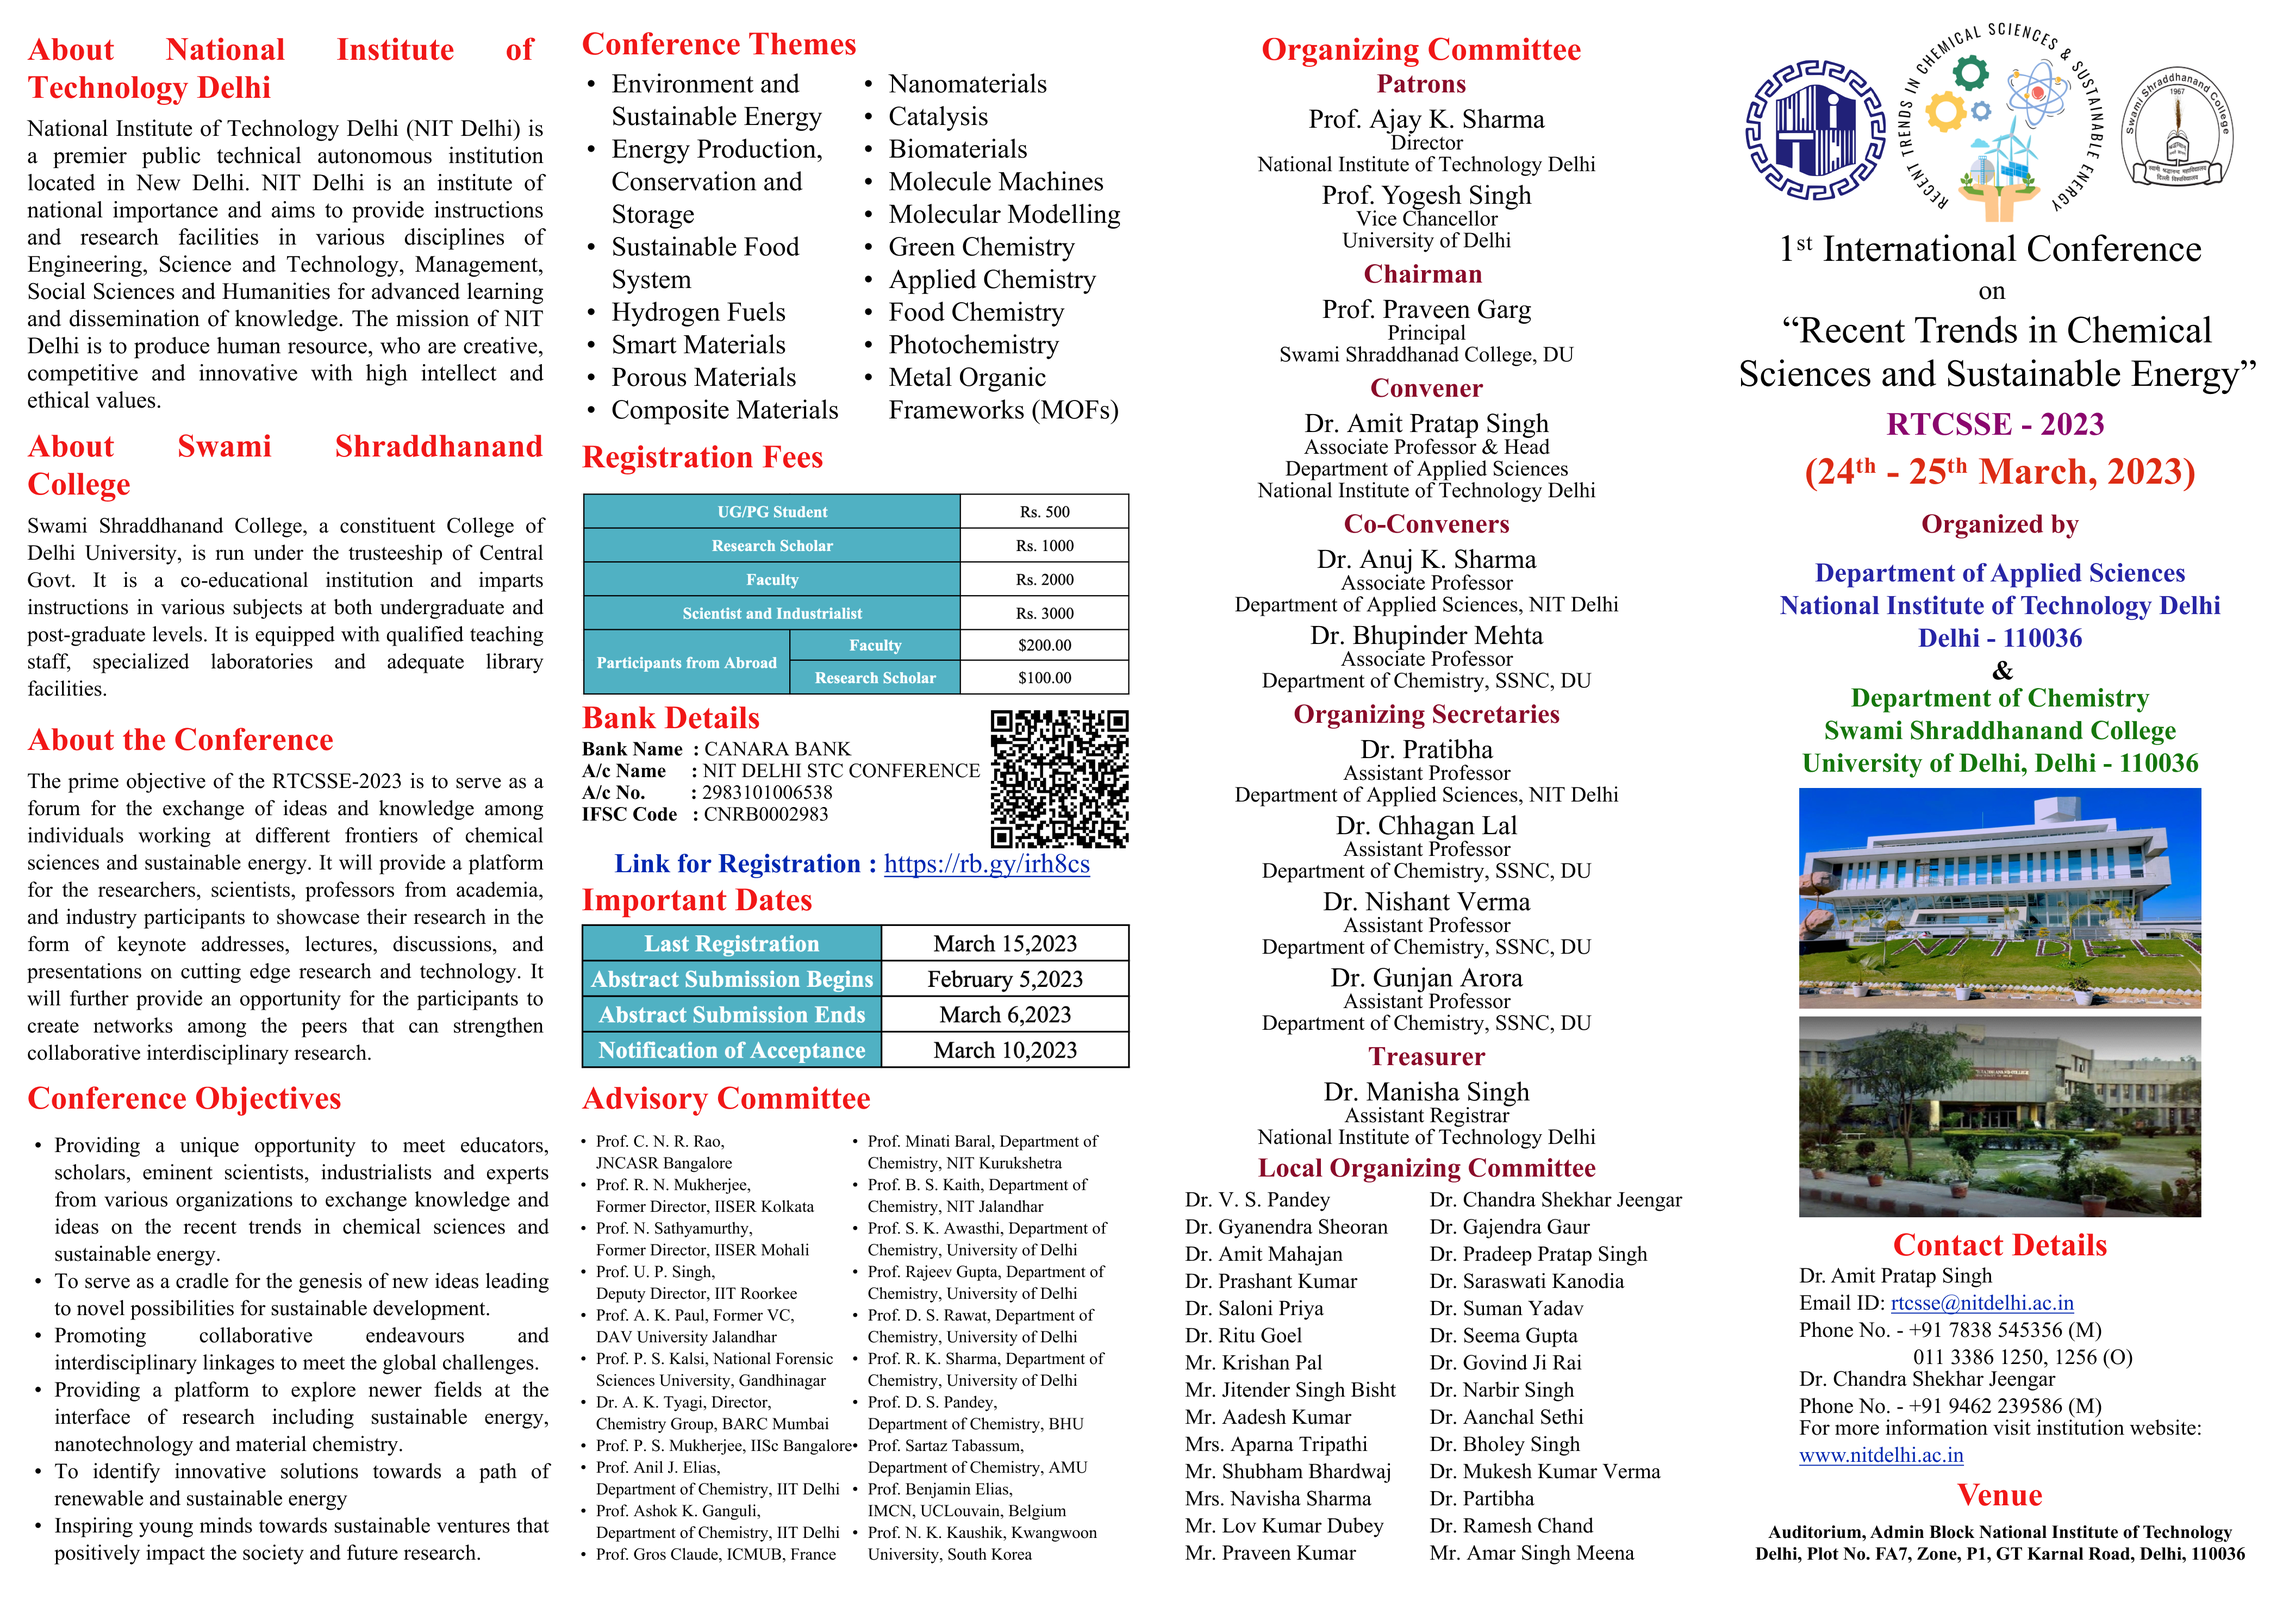
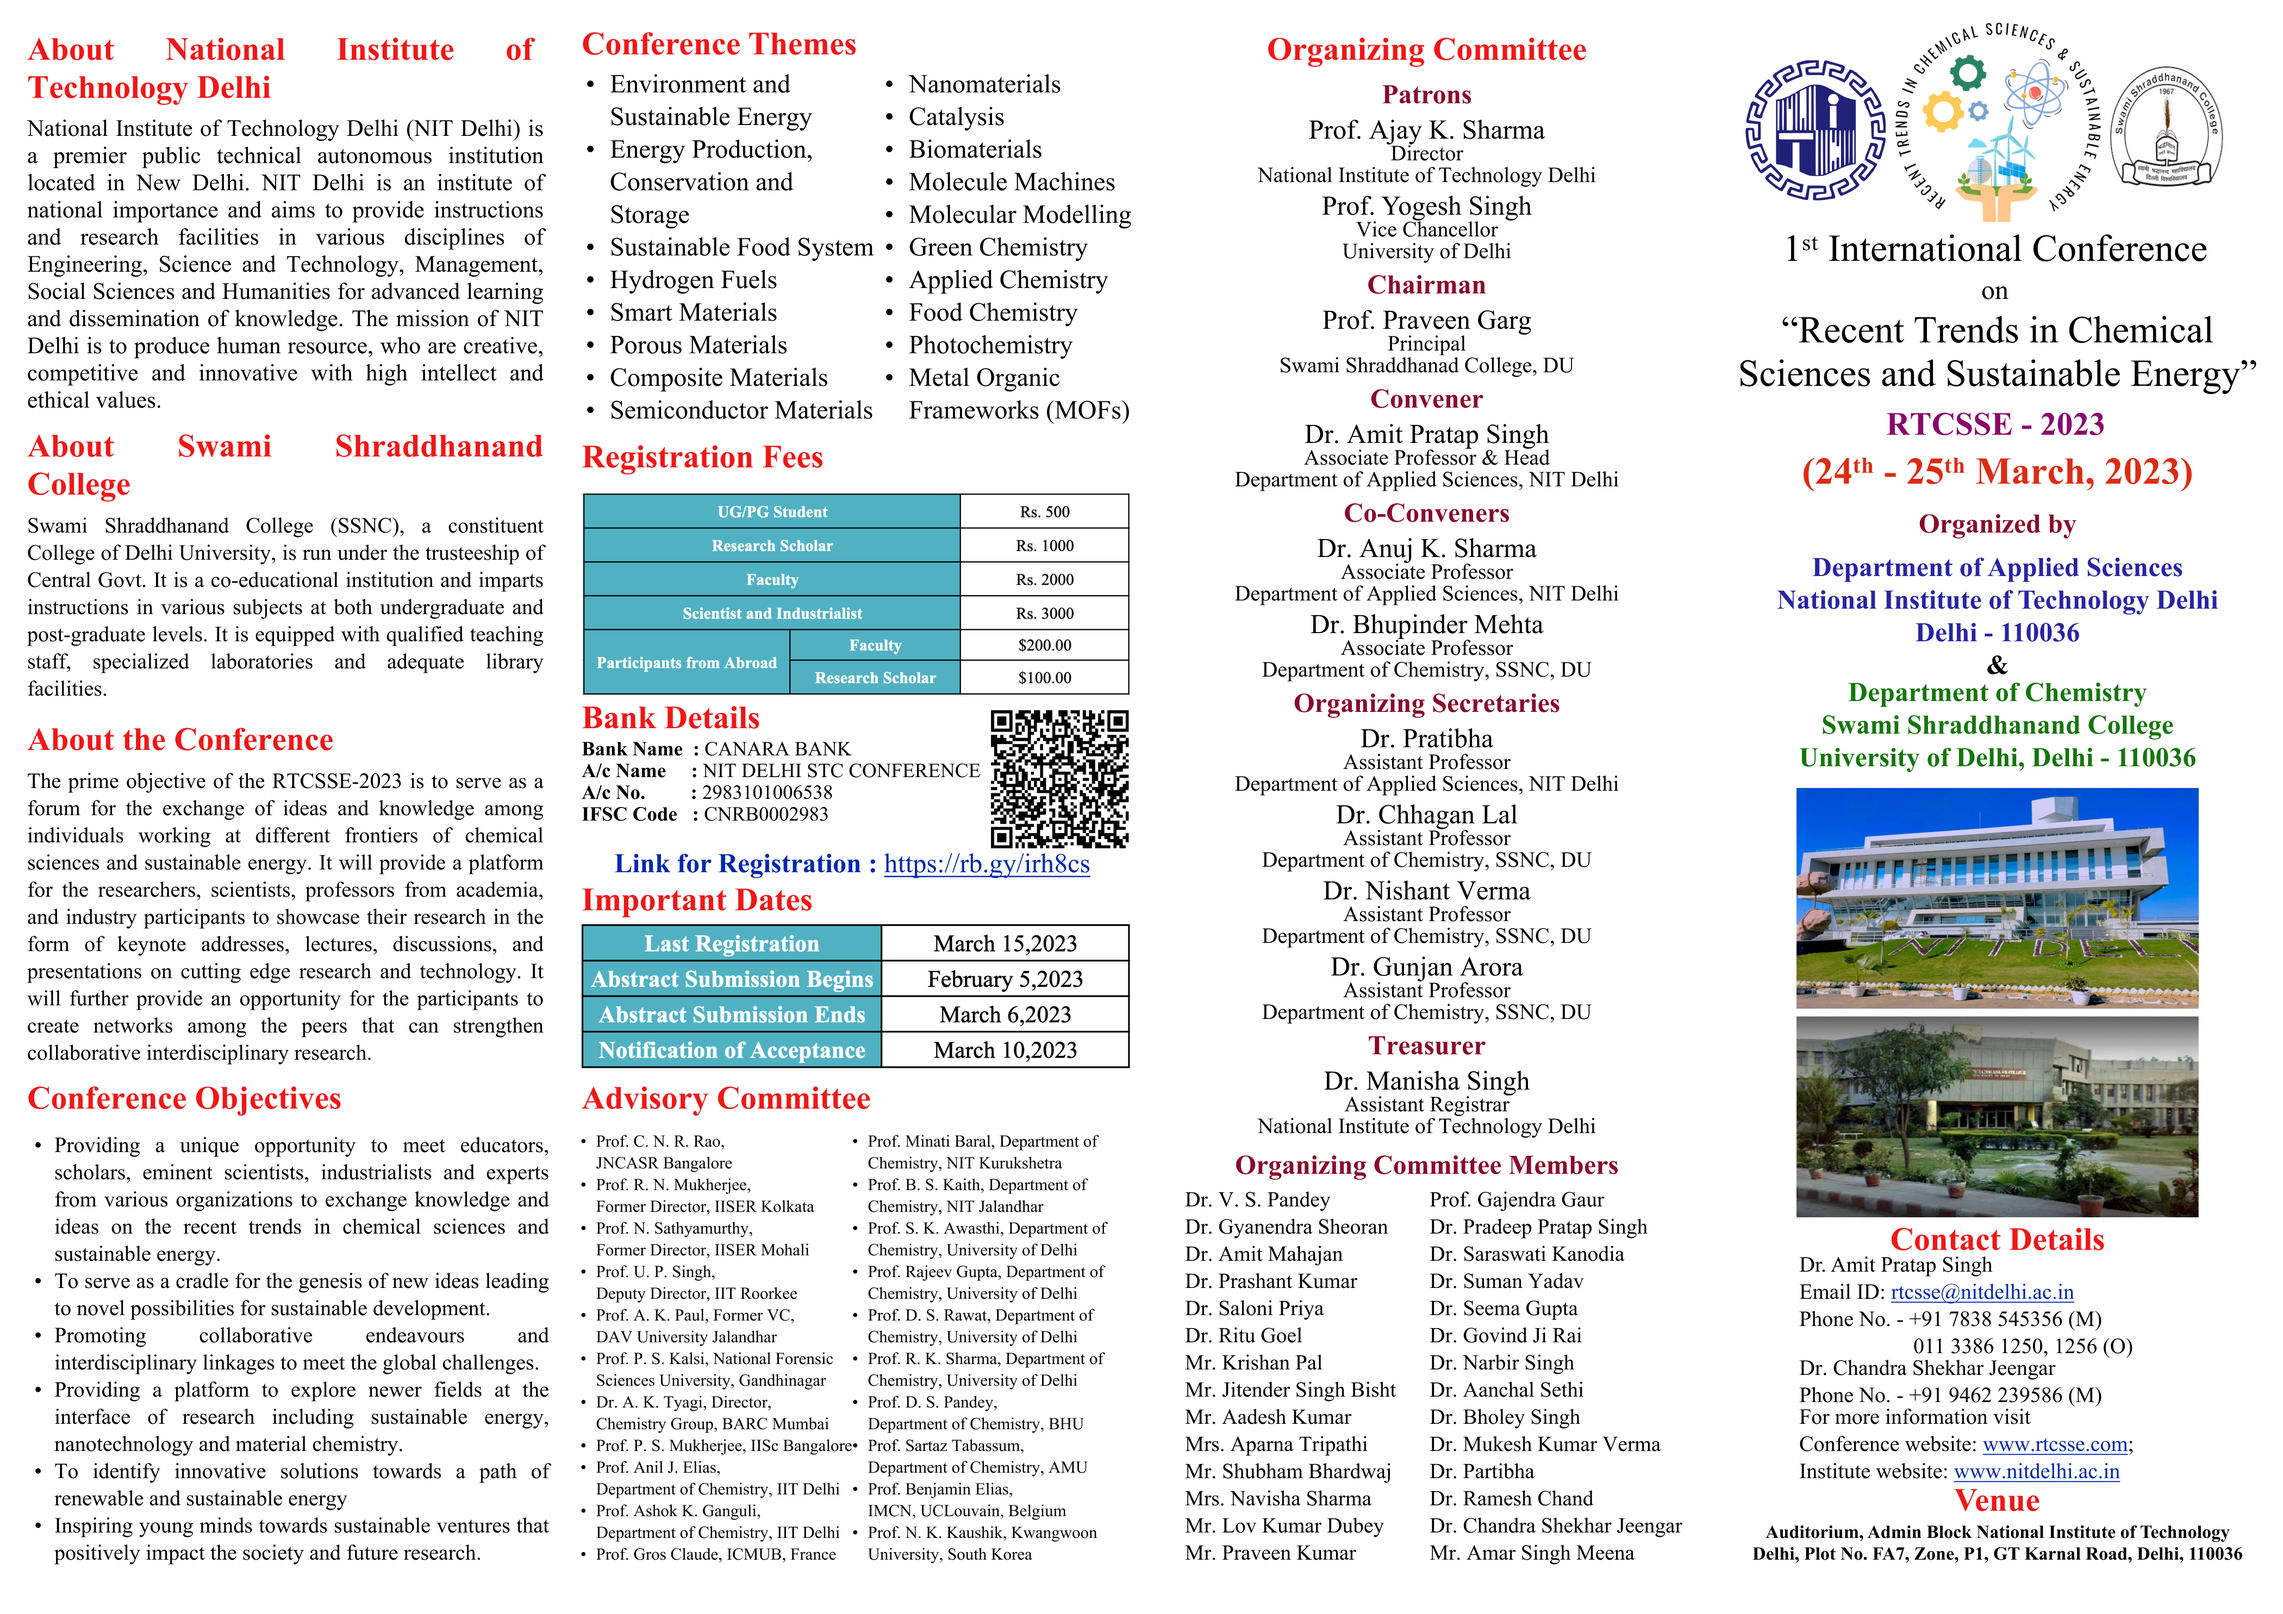
fix: footer, committte page

diff --git a/components/committeesPage/data.js b/components/committeesPage/data.js
@@ -43,14 +43,14 @@ export const organisingCommittee = [
             {
                 name: 'Prof. (Dr.) Ajay K. Sharma',
                 designation: 'Director',
-                affiliation: 'National Institute of Technology Delhi',
+                affiliation: {line1: 'National Institute of Technology Delhi', line2: ''},
                 photo:ajaysharma
                 
             },
             {
                 name: 'Prof. Yogesh Singh',
                 designation: 'Vice Chancellor',
-                affiliation: 'University of Delhi',
+                affiliation: {line1: 'University of Delhi', line2: ''},
                 photo:yogeshsingh
             },
         ]
@@ -61,7 +61,7 @@ export const organisingCommittee = [
             {
                 name: 'Prof. Praveen Garg',
                 designation: 'Principal',
-                affiliation: 'Swami Shraddhanand College, University of Delhi',
+                affiliation: {line1: 'Swami Shraddhanand College, University of Delhi', line2: ''},
                 photo:praveen
             }
         ]
@@ -71,8 +71,8 @@ export const organisingCommittee = [
         members: [
             {
                 name: 'Dr. Amit Pratap Singh',
-                designation: 'Head, Department of Applied Sciences',
-                affiliation: 'Associate Professor, NIT Delhi',
+                designation: 'Associate Professor & Head',
+                affiliation: {line1: 'Department of Applied Sciences', line2: 'National Institute of Technology Delhi'},
                 photo:apsingh
             }
         ]
@@ -83,14 +83,14 @@ export const organisingCommittee = [
             {
                 name: 'Dr. Anuj K. Sharma',
                 designation: 'Associate Professor',
-                affiliation: 'Department of Applied Sciences, NIT Delhi',
+                affiliation: {line1: 'Department of Applied Sciences', line2: 'National Institute of Technology Delhi'},
                 photo:anujsharma
                 
             },
             {
                 name: 'Dr. Bhupinder Mehta',
                 designation: 'Associate Professor',
-                affiliation: 'Department of Chemistry, SSNC, DU',
+                affiliation: {line1: 'Department of Chemistry', line2: 'Swami Shraddhanand College, University of Delhi'},
                 photo:bhupendirmehta
             },
         ]
@@ -101,25 +101,25 @@ export const organisingCommittee = [
             {
                 name: 'Dr. Pratibha',
                 designation: 'Assistant Professor',
-                affiliation: 'Department of Applied Sciences, NIT Delhi',
+                affiliation: {line1: 'Department of Applied Sciences', line2: 'National Institute of Technology Delhi'},
                 photo:pratibha
             },
             {
                 name: 'Dr. Chaggan Lal',
                 designation: 'Assistant Professor',
-                affiliation: 'Department of Chemistry, SSNC, DU',
+                affiliation: {line1: 'Department of Chemistry', line2: 'Swami Shraddhanand College, University of Delhi'},
                 photo:chaganlal
             },
             {
                 name: 'Dr. Nishant Verma',
                 designation: 'Assistant Professor',
-                affiliation: 'Department of Chemistry, SSNC, DU',
+                affiliation: {line1: 'Department of Chemistry', line2: ' Swami Shraddhanand College, University of Delhi'},
                 photo: nishantverma 
             },
             {
                 name: 'Dr. Gunjan Arora',
                 designation: 'Assistant Professor',
-                affiliation: 'Department of Chemistry, SSNC, DU',
+                affiliation: {line1: 'Department of Chemistry', line2: ' Swami Shraddhanand College, University of Delhi'},
                 photo:gunjanarora
             },
         ]
@@ -130,7 +130,7 @@ export const organisingCommittee = [
             {
                 name: 'Dr. Manisha Singh',
                 designation: 'Assistant Registrar',
-                affiliation: 'National Institute of Technology, Delhi',
+                affiliation: {line1: '', line2: 'National Institute of Technology Delhi'},
                 photo:manishasingh
             }
         ]
@@ -158,7 +158,7 @@ export const localOrganisingCommittee = {
         ],
     sscdu: [
         {name: "Dr. Chandra Shekhar Jeengar", affiliation: ssduLabel, photo: profile},
-        {name: "Dr. Gajendra Gaur", affiliation: ssduLabel, photo: profile},
+        {name: "Prof. Gajendra Gaur", affiliation: ssduLabel, photo: profile},
         {name: "Dr. Pradeep Pratap Singh", affiliation: ssduLabel, photo: profile},
         {name: "Dr. Saraswati Kanodia", affiliation: ssduLabel, photo: profile},
         {name: "Dr. Suman Yadav", affiliation: ssduLabel, photo: profile},

diff --git a/components/aboutPage/data.js b/components/aboutPage/data.js
@@ -14,7 +14,7 @@ export const aboutColleges = {
     },
     ssdu: {
         heading1: "About Swami Shraddhanand College, University of Delhi",
-        text1: "Swami Shraddhanand College is one of the institutions of higher education in the University of Delhi. The college is committed to provide quality education to the student community a both undergraduate and postgraduate levels. At college, emphasis is given not only to make students academically brilliant, but also to imbibe the essence of value system, characte building, socio-ethical responsibilities and dedication towards work. It attempts to provide an integrated and multi-disciplinary education that can help students to discover their tru potential. The college has a highly qualified and dedicated teaching and non-teaching staff and is well-equipped with specialized laboratories and a spacious and well-stocked library The college has an extensive lush green playground which provides an excellent opportunit for sports. Moreover, various cultural societies of the college provide opportunities t students to exhibit their talents in the fields of music, dance, debating, drama, etc. thus making the campus bubbling with life.",
+        text1: "",
         image1: nitdAdmin,
         text2: "The University of Delhi is a premier university of the country with a venerable legacy and international acclaim for highest academic standards, diverse educational programmes, distinguished faculty, illustrious alumni, varied co-curricular activities and modern infrastructure. Over the many years of its existence, the University has sustained the highest global standards and best practices in higher education. It has long-term commitment to nation building and unflinching adherence to universal human values. Beginning with three colleges and 750 students, it has grown as one of the largest universities in India with over 80 academic departments, an equal number of colleges and over seven lakh students. Over 500 programmes offered by the University are approved by Academic and Executive Councils, out of which 209 programmes are being considered for NAAC accreditation purpose. The rest being run in colleges are separately accredited. Moreover, five departments namely Chemistry, Geology, Zoology, Sociology and History have been awarded the status of the Centres of Advanced Studies. These Centres of Advanced Studies have carved a niche for themselves as centres of excellence in teaching and research in their respective areas.",
         image2: nitdAcad,

diff --git a/components/committeesPage/LocalOrganisingCommittee.jsx b/components/committeesPage/LocalOrganisingCommittee.jsx
@@ -6,7 +6,7 @@ export default function LocalOrganisingCommittee() {
     return (
         <section id="localOrganisingCommitee" className="py-6 bg-primary05">
             <div className="container flex flex-col mx-auto px-6 py-4">
-                <h2 className="text-4xl font-bold text-center md:text-4xl md:text-left">Local Organising Committee</h2>
+                <h2 className="text-4xl font-bold text-center md:text-4xl md:text-left">Organising Committee Members</h2>
                 <div className="mt-6 grid grid-cols-1 md:grid-cols-2">
                     <div className="grid grid-cols-1 md:grid-cols-2">
                         {localOrganisingCommittee.nitDelhi.map(function (member) {

diff --git a/components/Footer.jsx b/components/Footer.jsx
@@ -23,7 +23,7 @@ export default function Footer() {
                         <Image src={rtcsseLogo} className="object-contain" width={170} quality={100}/>
                     </div>
                     <a className="m-auto flex flex-col items-center space-y-6" target="_blank"
-                       href="https://nitdelhi.ac.in/">
+                       href="https://ss.du.ac.in/">
                         <p className="text-xs text-center md:text-lg hidden md:block">DEPARTMENT OF CHEMISTRY</p>
                         <Image src={sscduLongLogo} alt="" className="max-h-14 object-contain hidden md:block"
                                quality={100}/>

diff --git a/components/committeesPage/OrganisingCommittee.jsx b/components/committeesPage/OrganisingCommittee.jsx
@@ -42,7 +42,8 @@ function UserProfile({member, profileSize}) {
                 </div>
                 <div className="font-bold text-xl mb-2 text-primaryDark text-center">{member.name}</div>
                 <p className="text-primary80 text-lg text-center">{member.designation}</p>
-                <p className="uppercase leading-tight text-xs text-center">{member.affiliation}</p>
+                <p className="uppercase leading-tight text-sm text-center">{member.affiliation.line1}</p>
+                <p className="uppercase leading-tight text-xs text-center text-gray-500">{member.affiliation.line2}</p>
             </div>
         </div>
     )

diff --git a/app/page.jsx b/app/page.jsx
@@ -14,7 +14,6 @@ export default function Home() {
             <AboutConference/>
             <ConferenceObjectives />
             <ConferenceThemes />
-            <Registerbuttonbottom />
         </>
     )
 }
